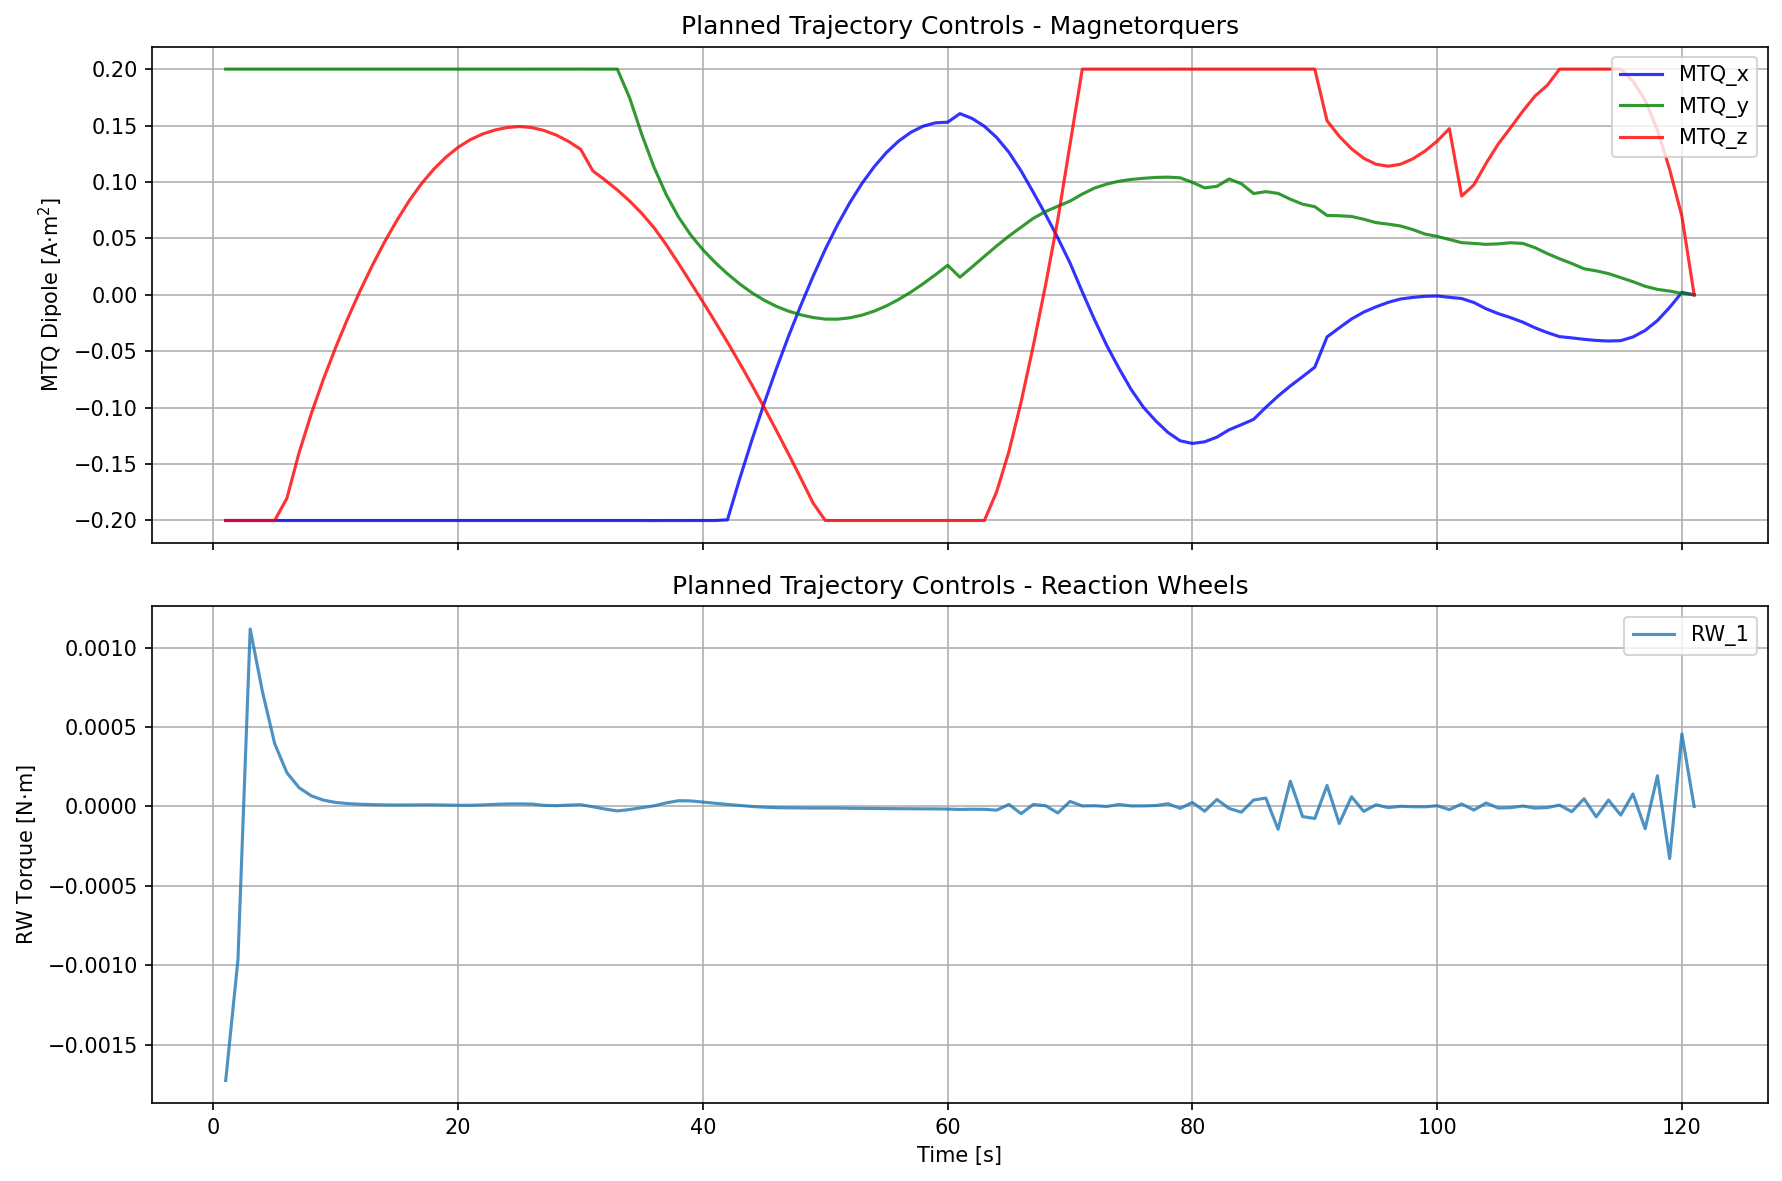
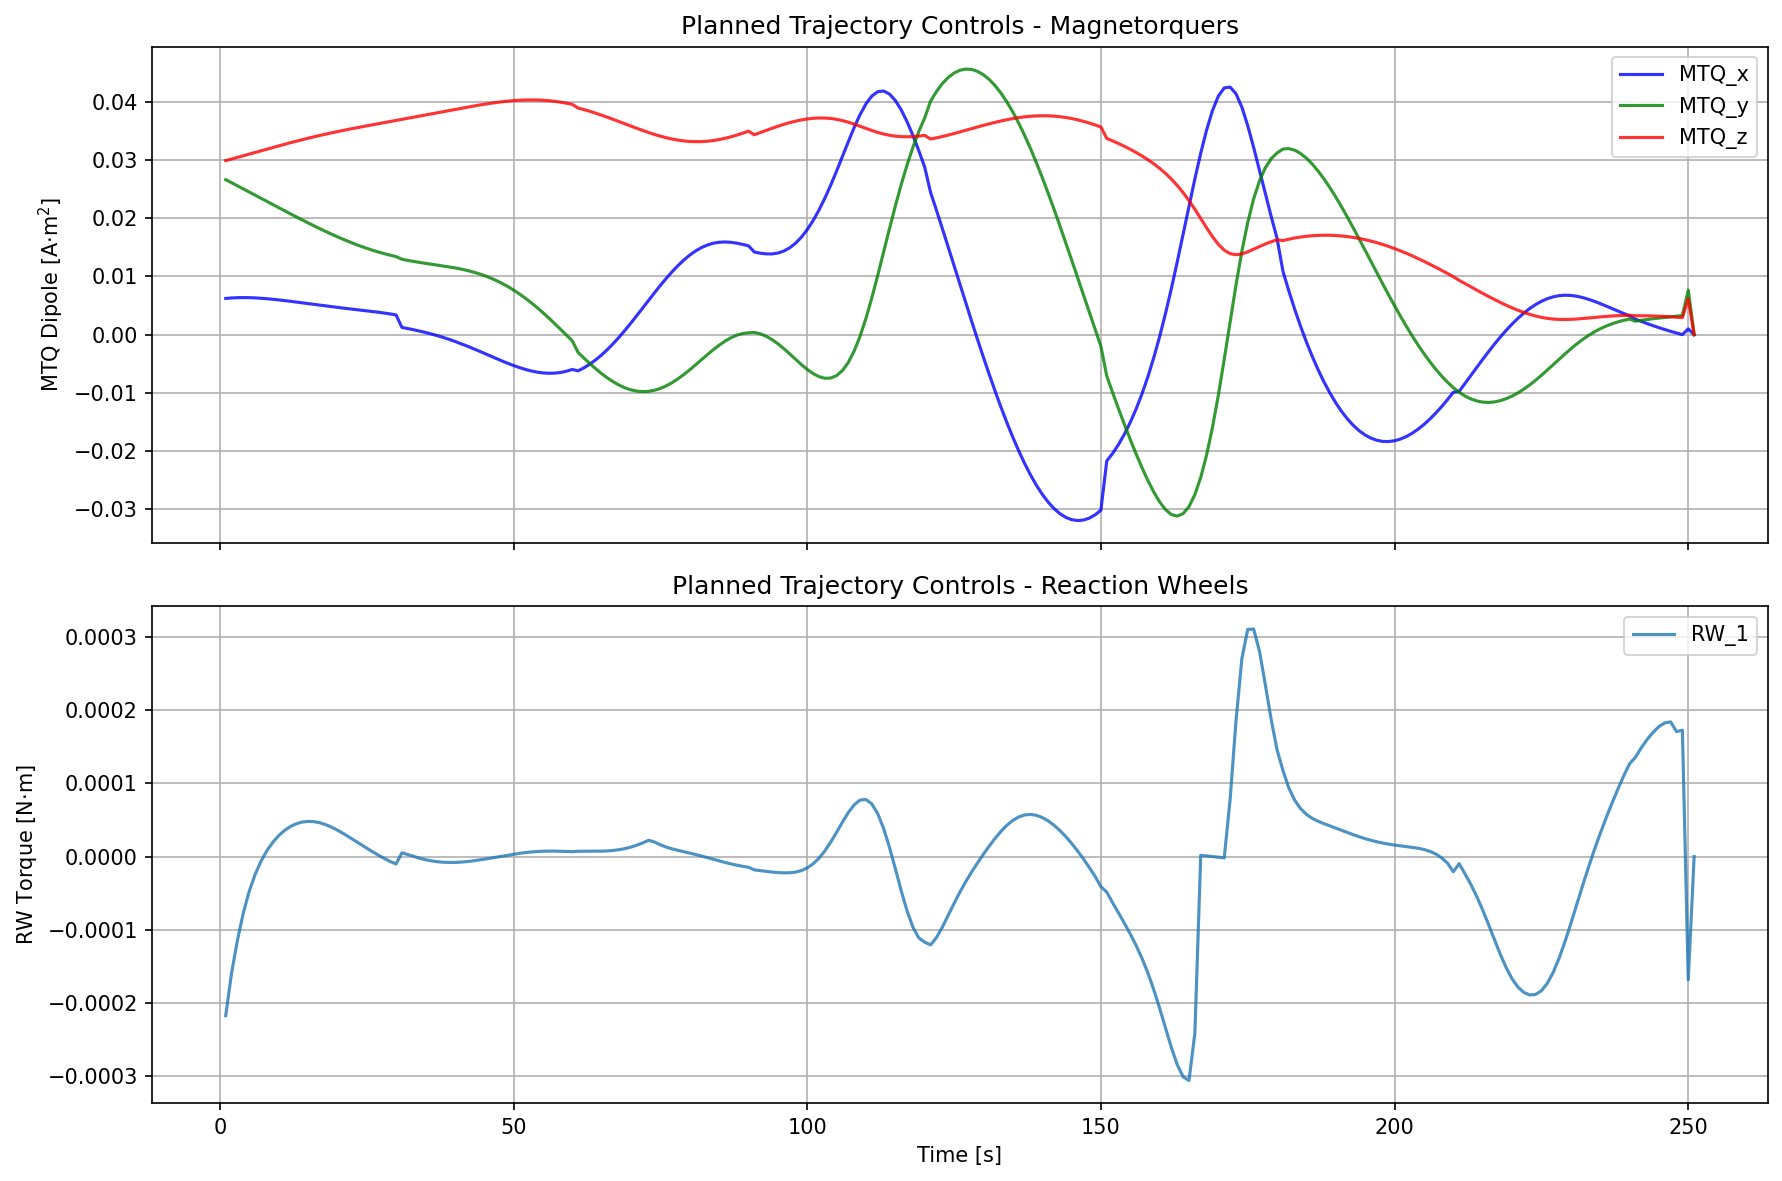
Refine verbosity levels: level 1 shows outer iters, level 2 shows metrics
- Level 1: outer iterations + convergence summary
- Level 2: cmax, grad, dLA, LA after each outer iter
- Level 3: z values, inner iteration details
- Removed full control matrix printing

diff --git a/debug/debug_controllers/debug_plan_and_track/debug_plan_and_track_bc2.py b/debug/debug_controllers/debug_plan_and_track/debug_plan_and_track_bc2.py
@@ -511,25 +511,25 @@ def test_plan_and_track_lqr(
     print("Setting up trajectory planner...")
     planner_settings = PlannerSettings(
         est_sat=real_sat,
-        bdot_on=3,  # Skip bdot initial guess (faster, more reliable)
+        bdot_on=1,  # Skip bdot initial guess (faster, more reliable)
         dt_tp=dt_planning,
         dt_tvlqr=dt,
     )
     planner_settings.verbosity = verbose
 
     # Tuned cost weights: low running + high terminal = fast convergence
-    planner_settings.cost_main.use_full_cost_hessian = False
+    planner_settings.cost_main.use_full_cost_hessian = True
     planner_settings.pass1.regularization.use_dynamics_hess = 1
-    planner_settings.cost_second.use_full_cost_hessian = False
+    planner_settings.cost_second.use_full_cost_hessian = True
     planner_settings.pass2.regularization.use_dynamics_hess = 0
     planner_settings.init_traj.bdot_gain = 500
-    planner_settings.cost_main.angle =     1000
-    planner_settings.cost_main.angle_N =   100000
+    planner_settings.cost_main.angle =     10000
+    planner_settings.cost_main.angle_N =   1000000
     planner_settings.cost_second.angle =   10000
-    planner_settings.cost_second.angle_N = 100000
-    planner_settings.cost_main.ang_vel = 0
+    planner_settings.cost_second.angle_N = 1000000
+    planner_settings.cost_main.ang_vel = 1e2
     # planner_settings.cost_main.ang_vel_N = 1e4
-    planner_settings.cost_second.ang_vel = 0
+    planner_settings.cost_second.ang_vel = 1e2
     # planner_settings.cost_second.ang_vel_N = 1e4
     planner_settings.cost_second.ang_cost_func_type = 2
     planner_settings.cost_second.ang_cost_func_type = 2 
@@ -538,11 +538,11 @@ def test_plan_and_track_lqr(
     planner_settings.pass1.convergence.max_outer_iter = 15 
     planner_settings.pass1.convergence.max_inner_iter = 50
     planner_settings.pass2.convergence.max_outer_iter = 20
-    planner_settings.pass2.convergence.max_inner_iter = 50
+    planner_settings.pass2.convergence.max_inner_iter = 30
 
     
-    planner_settings.rw_control_weight = 1e1
-    planner_settings.mtq_control_weight = 1e1
+    planner_settings.rw_control_weight = 1e2
+    planner_settings.mtq_control_weight = 1e2
     # planner_settings.wmax = 10*np.pi/180.0
 
 
@@ -581,10 +581,10 @@ def test_plan_and_track_lqr(
     # planner_settings.pass2.convergence.max_outer_iter = 5  # Minimal pass2
     # planner_settings.pass2.convergence.max_inner_iter = 30
 
-    # Relaxed tolerances for speed
+    # # Relaxed tolerances for speed
     # planner_settings.pass1.convergence.grad_tol = 0.01
-    # # planner_settings.pass1.convergence.ilqr_cost_tol = 1
-    # # planner_settings.pass1.convergence.c_max = 0.1
+    # # # planner_settings.pass1.convergence.ilqr_cost_tol = 1
+    # # # planner_settings.pass1.convergence.c_max = 0.1
     # planner_settings.pass2.convergence.grad_tol = 0.001
     # # planner_settings.pass2.convergence.ilqr_cost_tol = 1
     # planner_settings.pass2.convergence.c_max = 0.01
@@ -776,9 +776,9 @@ def plot_plan_and_track_lqr(
 if __name__ == "__main__":
     plot_plan_and_track_lqr(
         verbose=3,  # Quiet mode
-        tf=500,  # 60s trajectory for testing
+        tf=250,  # 60s trajectory for testing
         dt=1,
-        dt_planning=75,  # Tuned setting from quick_planner_tests
+        dt_planning=30,  # Tuned setting from quick_planner_tests
         real_orbit=True,  # Use fast orbit (use_J2=False) for faster testing
         seed=42,  # Same seed as quick_planner_tests
     )

diff --git a/trajectory_planner/src/planner/OldPlanner.cpp b/trajectory_planner/src/planner/OldPlanner.cpp
@@ -283,12 +283,7 @@ BEFORE_OUTPUT_FORM OldPlanner::trajOptBefore(VECTOR_INFO_FORM vecs_w_time,double
       cout<<"bdotOn is false, generating random initial trajectory!";
     }
     vec umax = join_cols(vec(sat.MTQ_max),0.1*vec(sat.RW_max_torq),0.1*vec(sat.magic_max_torq));
-    if(verbose_level >= 4){cout << "UMAX" << umax << "\n";}
     U = diagmat(umax)*randn(size(U))/RAND_MAX_INIT;
-    if(verbose_level >= 4)
-    {
-      cout<<U;
-    }
      traj = OldPlanner::generateInitialTrajectory(dt_use,x0, U, vecs);
      assert(approx_equal(get<1>(traj),U,"abstol",1e-10));
      X = get<0>(traj);
@@ -1426,7 +1421,7 @@ ALILQR_OUTPUT_FORM OldPlanner::alilqr(double dt0,TRAJECTORY_FORM traj, VECTOR_IN
 
   for(int j = 0; j < maxOuterIter_tmp; j++)
   {
-     if(verbose_level >= 2){cout<<"outer iter "<<j<<"\n";}
+     if(verbose_level >= 1){cout<<"outer iter "<<j<<"\n";}
     //reset cmaxtmp, dlaZcount
     cmaxtmp = 0.0;
     dlaZcount = 0;
@@ -1486,8 +1481,12 @@ ALILQR_OUTPUT_FORM OldPlanner::alilqr(double dt0,TRAJECTORY_FORM traj, VECTOR_IN
         break;
       }
     }
-    if(OldPlanner::outerBreak(auglag_vals,cmaxtmp,breakSettings_tmp,auglagSettings_tmp)&&j>2&&OldPlanner::ilqrBreak(grad,LA,dLA,dlaZcount,cmaxtmp,iter,breakSettings_tmp,true)) {
-      if(verbose_level >= 2){cout<<"converged at outer iter "<<j<<", cmax="<<cmaxtmp<<", LA="<<LA<<"\n";}
+    // Level 2: Show progress after each outer iteration
+    if(verbose_level >= 2){
+      cout<<"  outer "<<j<<": cmax="<<cmaxtmp<<" grad="<<grad<<" dLA="<<dLA<<" LA="<<LA<<"\n";
+    }
+    if(OldPlanner::outerBreak(auglag_vals,cmaxtmp,breakSettings_tmp,auglagSettings_tmp)&&j>2){//&&OldPlanner::ilqrBreak(grad,LA,dLA,dlaZcount,cmaxtmp,iter,breakSettings_tmp,true)) {
+      if(verbose_level >= 1){cout<<"converged at outer iter "<<j<<", cmax="<<cmaxtmp<<", LA="<<LA<<"\n";}
       break;
     }
     //update lambdaSet, etc.
@@ -2413,7 +2412,7 @@ tuple<TRAJECTORY_FORM,double, REG_PAIR> OldPlanner::forwardPass(double dt0,TRAJE
     if(verbose_level >= 3){cout<<"Increased cost in forwardpass\n";}
     throw("Increased cost in forwardpass");
   }
-  if(verbose_level >= 4){cout<<"*************** z "<<z<<"\n";}
+  if(verbose_level >= 3){cout<<"    z="<<z<<" alph="<<alph<<" LA: "<<LA<<" -> "<<newLA<<"\n";}
   return make_tuple(newTraj, newLA, regs);
 }
 
